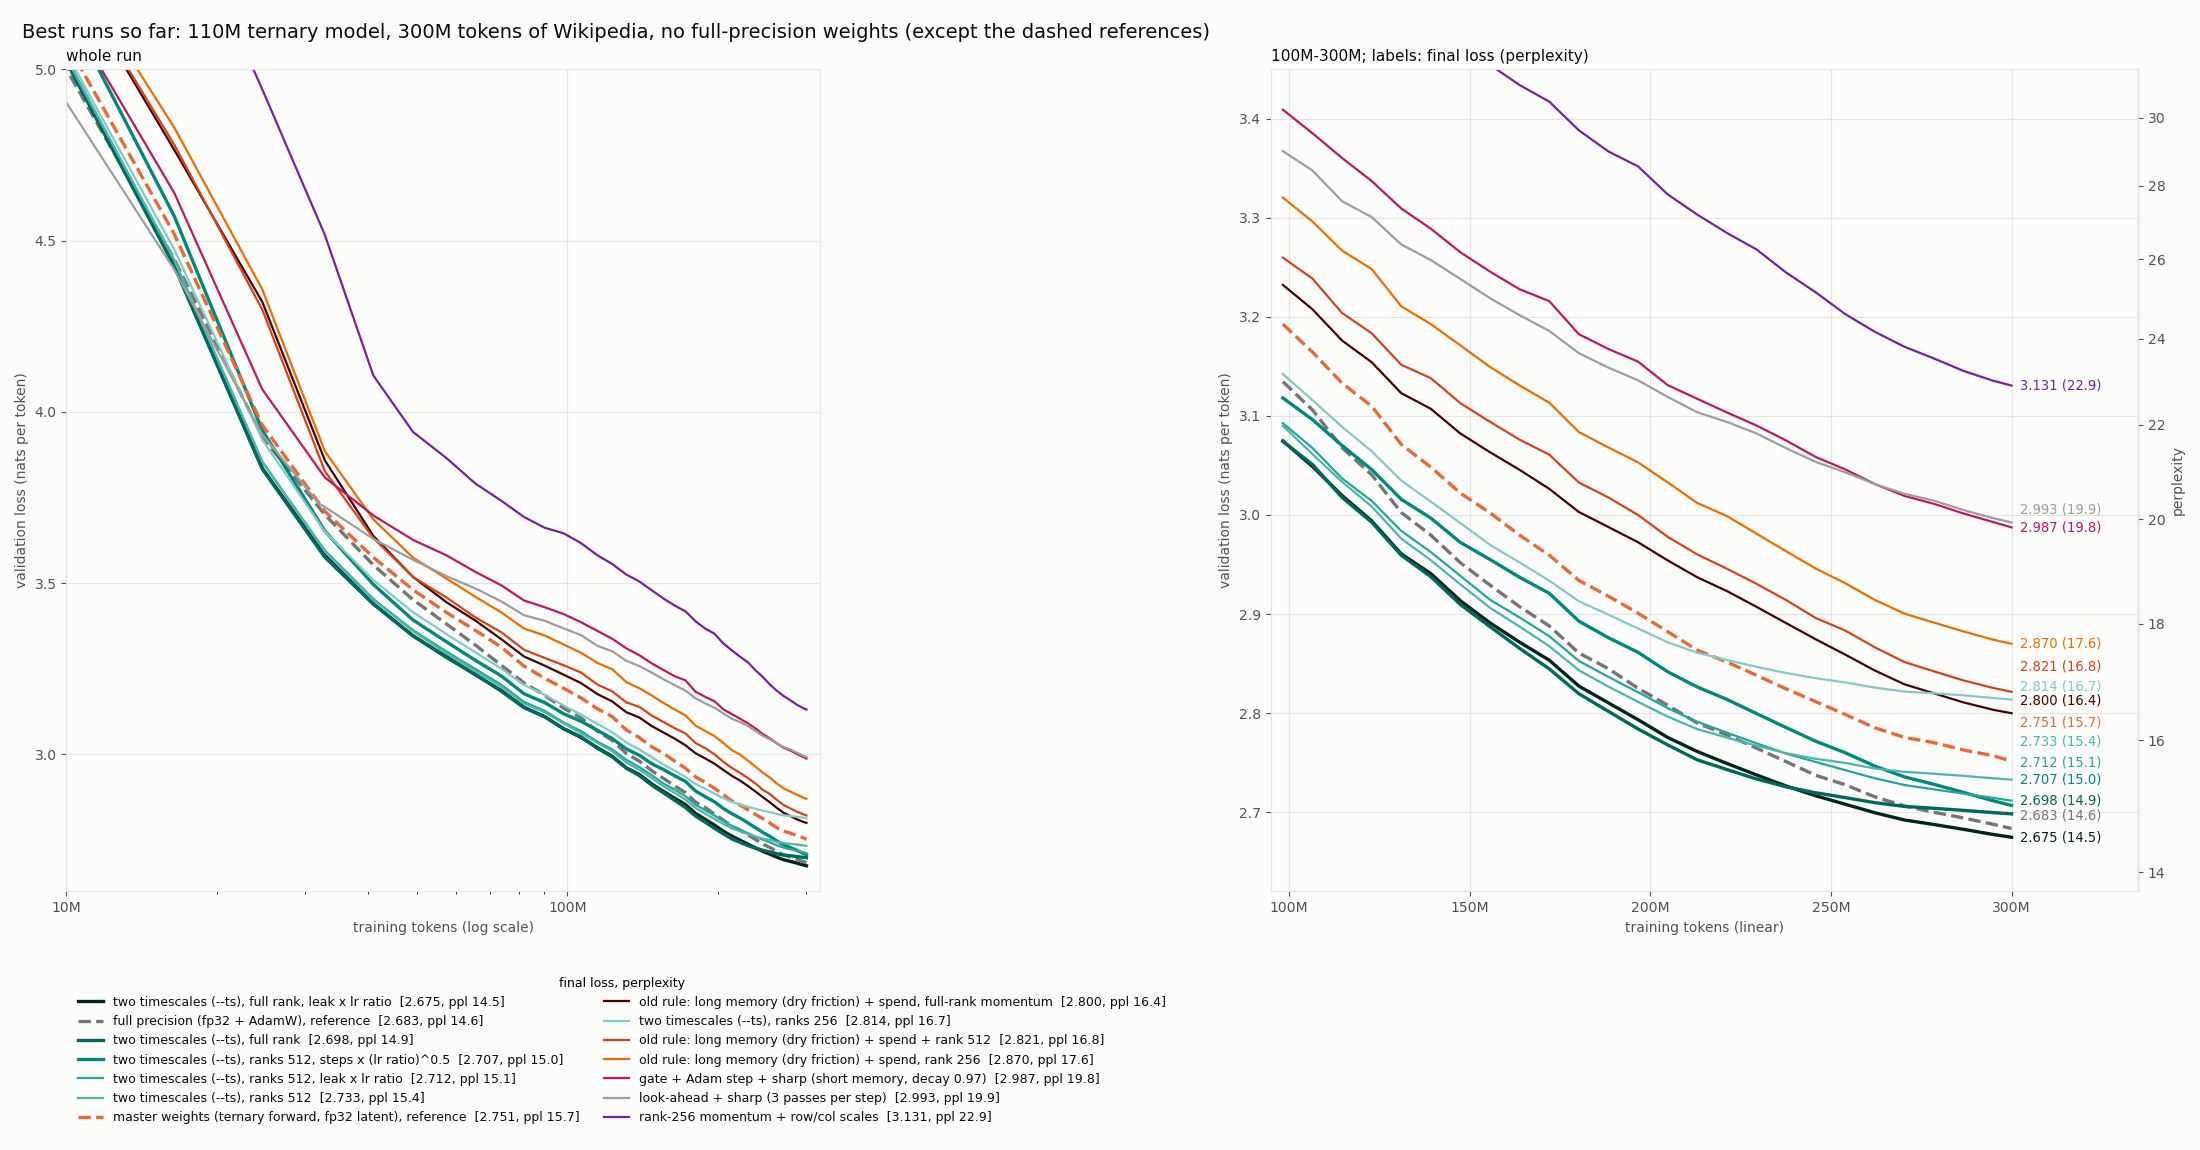
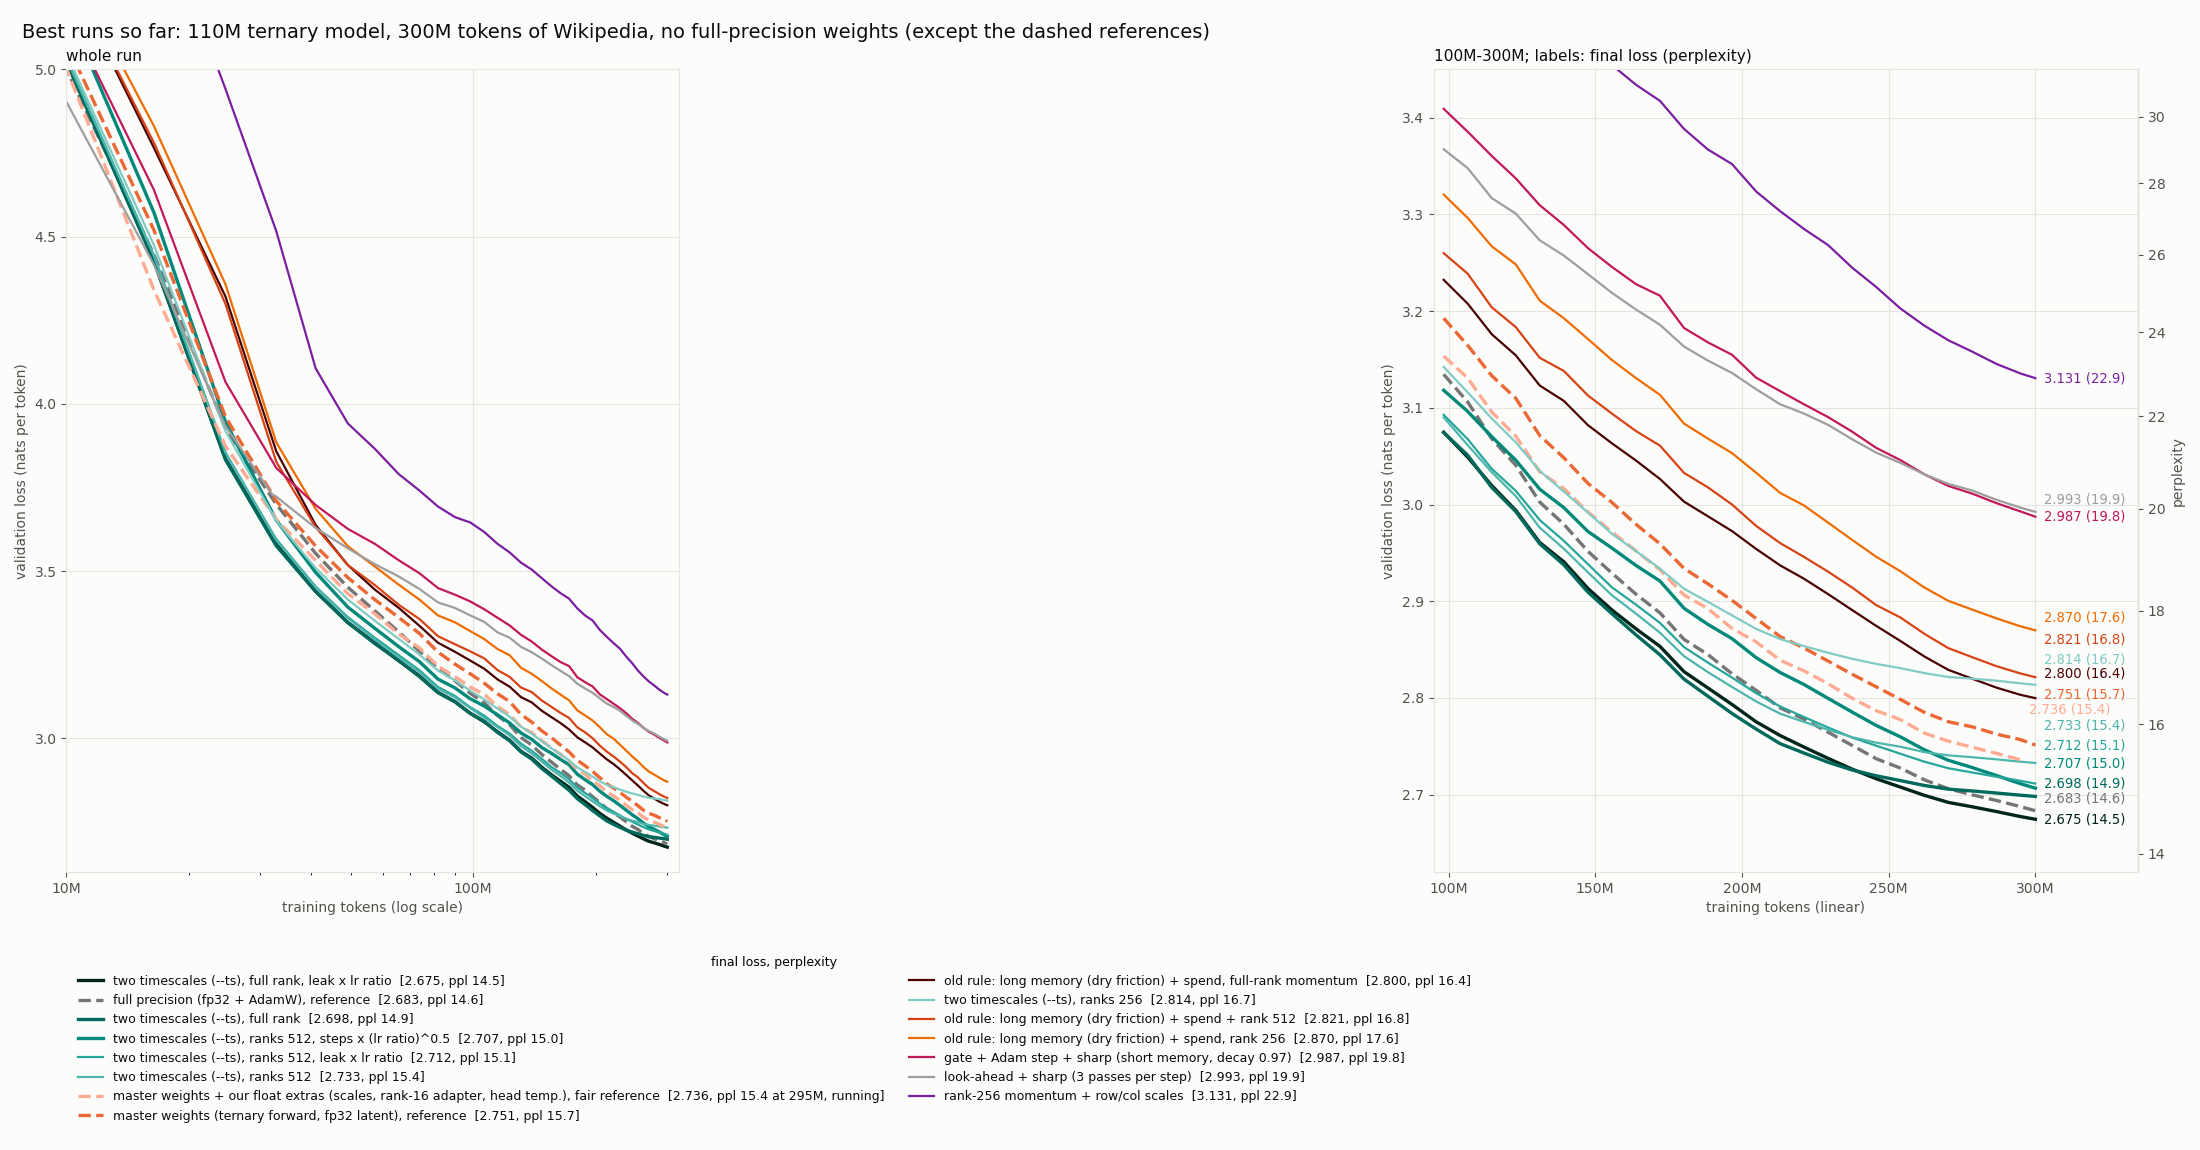
Fair reference (master + extras ~2.728): --ts ranks 512 two-seed mean 2.702; 340M --ts 2.6268; int8 costs ~0.03; 1.3B --ts on master's curve

diff --git a/docs/RUN_INDEX.md b/docs/RUN_INDEX.md
@@ -15,6 +15,8 @@ Running, queued, unfinished and never-run runs: [QUEUE.md](QUEUE.md) (kept curre
 | **`ts16rs512tau1000an05_s0`** | `--ts`, both ranks 512, tau 1000, steps x (lr ratio)^0.5 | **2.7067** | **15.0** |
 | `ts16rs512la1000_s0` / `_gate` | `--ts`, both ranks 512, tau 1000, annealed leak (/ + sign gate) | 2.7115 / 2.7116 | 15.1 |
 | `ts16rs512tau1000_s0` / `_seed2` | `--ts`, both ranks 512, tau 1000, seeds 1 / 2 | 2.7328 / 2.7191 | 15.4 / 15.2 |
+| `ts16rs512tau1000an05_seed2` | `--ts`, ranks 512, steps x ratio^0.5, seed 2 (seed 1 2.7067) | 2.6978 | 14.8 |
+| `ts16full_tau1000_seed2` / `ts16fulltau1000an05_s0` | `--ts` full rank, seed 2 / with steps x ratio^0.5 | 2.6865 / 2.6804 | 14.7 / 14.6 |
 | **`gvsharp_dryspend_r1024_s0`** | sharp base + beta 1 + dry friction 1/33 + spend 3 + rank 1024 (= full rank: every 110M matrix has a smaller side of 768) | **2.7998** | **16.4** |
 | `gvsharp_dry_r1024_s0` / `_seed2` | sharp base + beta 1 + dry friction 1/33 + rank 1024, seeds 1 / 2 | 2.8198 / 2.8088 | 16.8 / 16.6 |
 | `gvsharp_dryspend_r512_s0` | sharp base + beta 1 + dry friction 1/33 + spend 3 + rank 512 | 2.8215 | 16.8 |
@@ -25,6 +27,7 @@ Running, queued, unfinished and never-run runs: [QUEUE.md](QUEUE.md) (kept curre
 
 The sections below keep each phase's own unit: the first phases report perplexity, from 27 Sep on validation loss.
 
+Fair reference (master + the same float extras, two seeds): ~2.728 (2.7362 / 2.7309 at 9000). `--ts` ranks 512 (two seeds, mean 2.702) is -0.026 below it.
 Caveat on `--ts` vs master: our runs carry float extras master does not (row / column scales, a rank-16 additive float
 adapter, per-head attention temperature). Alone (no flips) they reach only 3.1725, but master with the same extras
 (`mx_extras_s0` / `_seed2`, running) is the fair reference. The `--ts` rows are one seed each except where noted.
@@ -217,15 +220,15 @@ ones: [QUEUE.md](QUEUE.md).
 | `ts16r256rs256tau1000_s0` / `ts16r128rs128tau1000_s0` (lamprey / goldeye) | best setting with both ranks 256 / 128 | 300M | 2.8136 (+0.062) / 2.9088 (+0.158) |
 | `ts16r256rs512tau1000_s0` / `ts16r512rs256tau1000_s0` (tope / koi) | accumulator 256 + short 512 / accumulator 512 + short 256 | 300M | 2.7825 (+0.031) / 2.7815 (+0.030) |
 | `ts16rs512tau3000_s0` / `ts24rs512tau1000_s0` / `ts16rs512tau1000_seed2` (barbel / hake / plaice) | tau 3000 / theta 24 / seed 2 | 300M | 2.7270 (-0.024) / 2.8103 (+0.059) / 2.7191 (-0.032) |
-| `big_ts16rs512tau1000_s0` (4090) | the best setting at 340M (master 2.6626, our rule r512 2.7246) | running | -0.138 vs 340M master, -0.220 vs our 340M rule @4500 |
+| **`big_ts16rs512tau1000_s0`** (4090) | the best setting at 340M (master 2.6626, our rule r512 2.7246) | 300M | **2.6268 (-0.036 vs 340M master)** |
 | `ts16r64rs64tau1000_s0` / `ts16r128rs512tau1000_s0` (rudd / skate) | both ranks 64 / accumulator 128 + short 512 | 300M / running | 3.0183 (+0.267) / +0.026 @6000 |
-| `ts16fulltau1000an05_s0` / `ts16rs512tau1000an075_s0` / `ts16r256rs256tau1000an05_s0` (harlequin / pintail / uaru) | full rank + annealing ^0.5 / rank 512 + ^0.75 / ranks 256 + ^0.5 | running | @6500-7000 |
-| `ts16full_tau1000_seed2` / `ts16rs512tau1000an05_seed2` (dory / flounder) | seed 2 of the two headline runs | running | - |
+| `ts16fulltau1000an05_s0` / `ts16rs512tau1000an075_s0` / `ts16r256rs256tau1000an05_s0` (harlequin / pintail / uaru) | full rank + annealing ^0.5 / rank 512 + ^0.75 / ranks 256 + ^0.5 | 300M | 2.6804 / 2.7138 / 2.7824 |
+| `ts16full_tau1000_seed2` / `ts16rs512tau1000an05_seed2` (dory / flounder) | seed 2 of the two headline runs | 300M | 2.6865 / **2.6978** |
 | `ts16fullla1000_seed2` / `ts16rs512la1000_seed2` (goldeye / barbel) | seed 2 of the annealed-leak runs | running | - |
 | `ts16rs512la1000an05int8_s0` / `ts16r256rs256la1000an05int8_s0` (plaice / hake) | the same in int8 (`--ts_int8`) with the fused update (`--ts_fused`) | running | - |
 | `ts16rs512la1000an05_s0` / `ts16r256rs256la1000an05_s0` (albacore / elver) | ranks 512 / 256, leak and steps scaled by (lr ratio)^0.5 | running | - |
-| `x1b_ts512_la1000an05` (Myriad, queued) | `--ts` at 1.3B, ranks 512, leak and steps x ratio^0.5, lr 7.5e-4 (1.3B master 2.5868; old rule +0.208 at 4000) | queued | - |
-| `mx_extras_s0` / `mx_extras_seed2` (tope / lamprey) | **fair reference**: master + the same float extras (row/col scales, additive rank-16 adapter, qk temperature) | running | - |
+| `x1b_ts512_la1000an05` (Myriad, running) | `--ts` at 1.3B, ranks 512, leak and steps x ratio^0.5, lr 7.5e-4 (1.3B master 2.5868; old rule +0.208 at 4000) | queued | - |
+| `mx_extras_s0` / `mx_extras_seed2` (tope / lamprey) | **fair reference**: master + the same float extras (row/col scales, additive rank-16 adapter, qk temperature) | running | 2.7362 / 2.7309 @9000 (finals ~2.730 / ~2.725) |
 | `tsnoflip_s0` | control: theta 1e9 (no flips; float extras only) | 300M | 3.1725 (+0.421) |
 
 ## Recipe tweaks (1-2 Oct, finished; vs the rule r512 2.8215)

diff --git a/docs/RUNS.md b/docs/RUNS.md
@@ -2762,3 +2762,34 @@ state (two rank-r matrices per layer): ranks 256 int8 3.55 GiB (fits), 128 bf16 
 real int8 storage (`--ts_int8` simulates it); batch size (gradient accumulation of a full fp32 gradient is 85 GiB, so
 update per micro-batch or accumulate projections); `--track_flips` must be off (its touched mask is another 4.26 GiB);
 and compute (~6 x 23B x tokens per step: days per 300M tokens).
+
+### 2 Oct 17:20: the fair reference, seeds, 340M, int8, 1.3B
+
+**Master + our float extras** (`mx_extras_s0` / `_seed2`, row/col scales + additive rank-16 adapter + qk temperature):
+2.7362 / 2.7309 at 9000 (-0.021 / -0.026 vs plain master): finals ~2.730 / ~2.725, **fair reference ~2.728**.
+
+| `--ts` (110M) | seed 1 | seed 2 | mean | vs plain master 2.7513 | vs fair reference ~2.728 |
+|---|---|---|---|---|---|
+| ranks 512, tau 1000, steps x ratio^0.5 | 2.7067 | 2.6978 | **2.702** | -0.049 | **-0.026** |
+| full rank, tau 1000 | 2.6982 | 2.6865 | 2.692 | -0.059 | -0.036 |
+| full rank, tau 1000, steps x ratio^0.5 | 2.6804 | - | | -0.071 | -0.048 |
+| full rank, annealed leak | 2.6746 | 2.6977 @7750 (-0.101) | | | |
+| ranks 512, annealed leak | 2.7115 | 2.7147 @8250 (-0.061) | | | |
+| ranks 256, steps x ratio^0.5 | 2.7824 | - | | +0.031 | +0.054 |
+
+So with two seeds each and the extras given to master too, `--ts` at rank 512 still finishes ~0.026 below master
+(seed spread 0.009); at full rank ~0.04-0.05 below. Rank 256 is +0.05 behind the fair reference.
+
+**340M** `big_ts16rs512tau1000_s0` finished **2.6268**: 340M master 2.6626 (**-0.036**), our old 340M rule r512 2.7246
+(-0.098). (No 340M master + extras yet.)
+
+**Both late fixes together** (leak and steps x ratio^0.5) are no better than ratio^0.5 alone: ranks 512 -0.024 vs plain
+master at 7500 (ratio^0.5 alone -0.039 at 7000); ranks 256 +0.033 at 8250 (alone +0.030 at 8000).
+
+**int8** (simulated, both matrices, with the fused update): ranks 512 +0.001 vs master at 6000 against its fp32 twin's
+-0.030; ranks 256 +0.054 at 6750 against ~+0.02: **int8 costs ~0.03 here**, more than for the old rule (0.004-0.02).
+Finals ~18:15.
+
+**1.3B `--ts`** (`x1b_ts512_la1000an05`, Myriad V node, 9.7 s/step, peak 24.7 GiB): 3.971 / 3.673 / 3.502 / 3.376 at
+750 / 1000 / 1250 / 1500; 1.3B master 3.856 / 3.616 / 3.465 / 3.365 (+0.011 at 1500); our old rule at 1000 4.542
+(+0.93). The old rule's early lag at 1.3B is gone. Finishes Sat ~14:45. Old rule 1.3B: +0.187 vs 1.3B master at 6000.

diff --git a/docs/QUEUE.md b/docs/QUEUE.md
@@ -6,14 +6,29 @@ by the user with `bash ~/ternary-LLM/scripts/remote/start.sh SCRIPT`), **shovele
 PCs, at most two in use), **laptop**. Token counts are training tokens (32,768 per step at batch 16). From
 2026-09-27 on, new runs are without look-ahead.
 
-Last updated: 2026-10-02 13:50
+Last updated: 2026-10-02 17:20
 
 Run names: `rc` = learned row/column scales, `s0` = from scratch (step 0), `b131` = branch from `nola_lab` at 131M,
 `gate` = sign gate (flip only where this batch's gradient agrees with the momentum), `vnorm` = factored Adam step
 (momentum divided by a row x column gradient size), `rateNNN` = plain momentum at 0.NNx peak flip rate,
 `speedref` = per-layer slow speed reference, `seed2` = same run with seed 2.
 
-## Now (2 Oct, 12:20)
+## Now (2 Oct, 17:20)
+
+| machine | run | what | expected |
+|---|---|---|---|
+| Myriad 40267 | `x1b_ts512_la1000an05` | 1.3B `--ts` ranks 512: +0.011 vs 1.3B master at 1500 (old rule was +0.93 at 1000); 9.7 s/step, 24.7 GiB | Sat ~14:45 |
+| Myriad 36472 | `x1b_dryspend_r512_lr75` | 1.3B old rule: +0.187 vs 1.3B master at 6000 | Sat ~01:20 |
+| Myriad 40272-40274 | `prof1b_*` | 1.3B A100 profile (master / old / --ts) | queued |
+| plaice / hake | `ts16rs512la1000an05int8_s0` / `ts16r256rs256la1000an05int8_s0` | int8 + fused: ~0.03 behind their fp32 twins | ~18:15 |
+| albacore / elver | `ts16rs512la1000an05_s0` / `ts16r256rs256la1000an05_s0` | both late fixes (fp32 twins) | ~17:45 |
+| tope / lamprey | `mx_extras_s0` / `_seed2` | master + extras (fair reference), at 9000 | ~17:30 |
+| goldeye / barbel | `ts16fullla1000_seed2` / `ts16rs512la1000_seed2` | seed 2 of the annealed-leak runs | ~17:45 |
+
+Finished today: 340M `--ts` 2.6268; seed 2s 2.6865 (full) / 2.6978 (rank 512, ^0.5); ^0.5 full 2.6804; ^0.75 rank 512
+2.7138; ranks 256 ^0.5 2.7824. Free: 4090, dory, flounder, harlequin, pintail, uaru, inanga, quillback, rudd, koi.
+
+## Earlier (2 Oct, 12:20)
 
 | machine | run | what | expected |
 |---|---|---|---|
